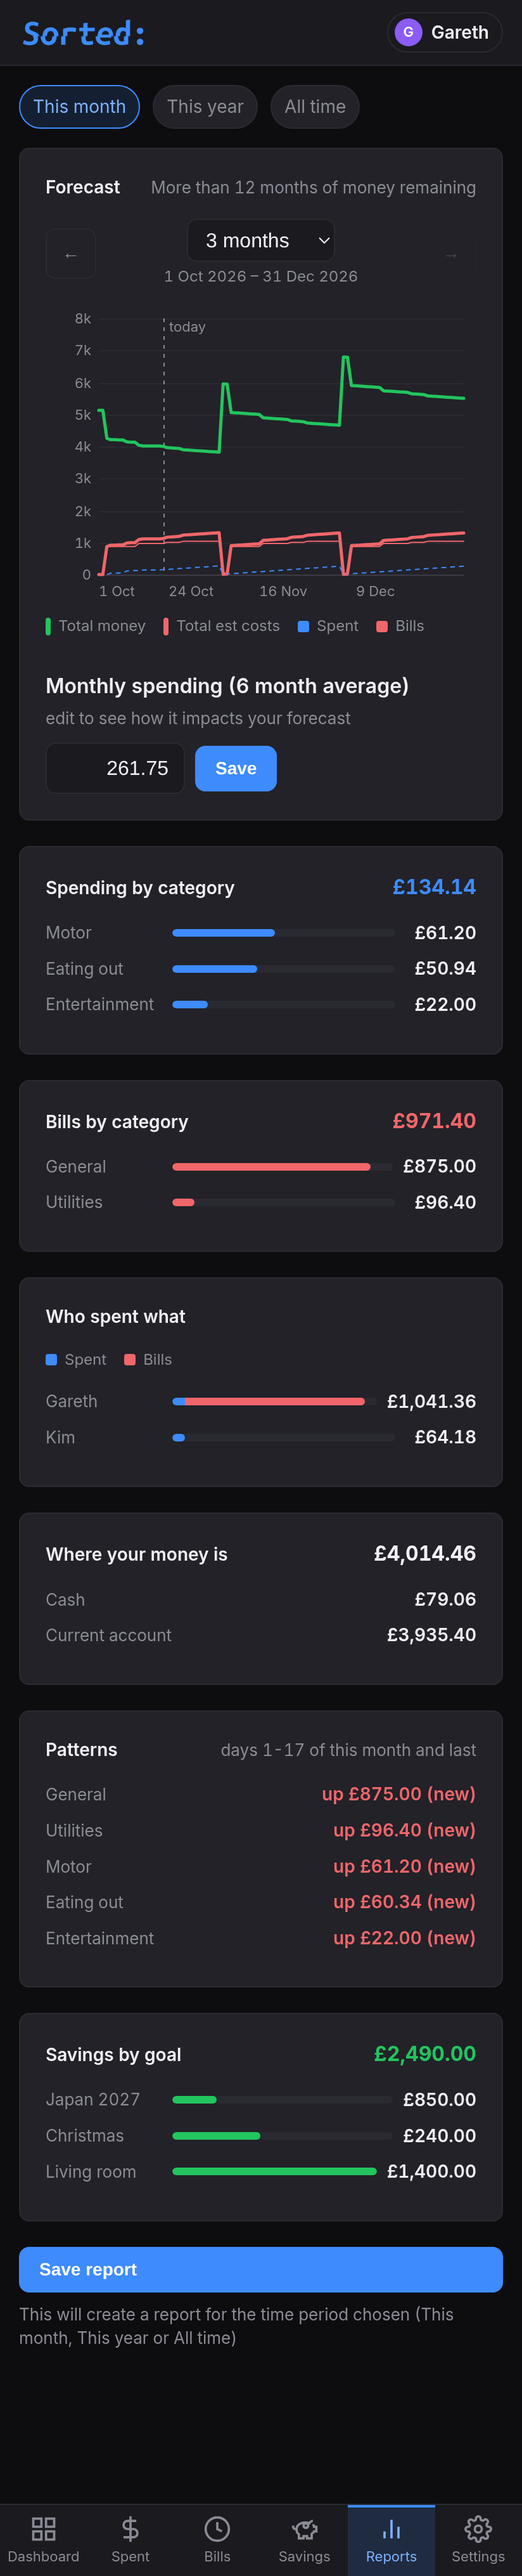
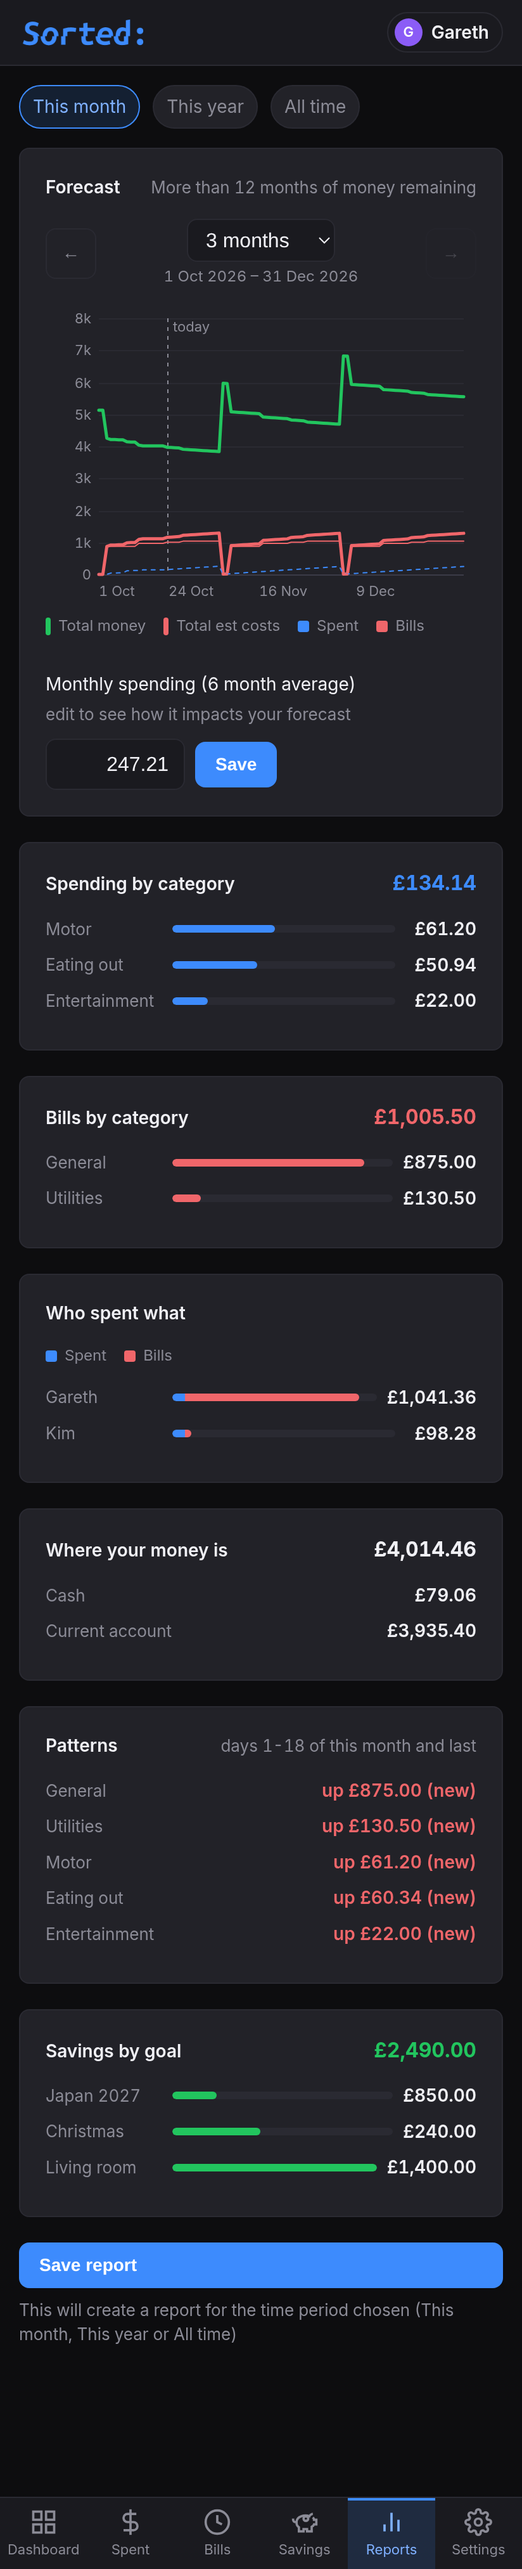
readme: the release pointer at 2.98.0, and the three shots the change invalidated
bills and settings changed as expected; reports changed because its Forecast
card carries a row label too, so the card is 10px shorter. dashboard, savings
and spend are pixel-identical, which is the check that says nothing else moved.

The portfolio's card image for the same shot was regenerated from the new one
with the recipe the other two cards were made with — ImageMagick's
`-resize 50%`, verified by reproducing both untouched cards byte-for-byte.
A plain PIL Lanczos is close but not the same pixels.

diff --git a/README.md b/README.md
@@ -96,7 +96,7 @@ Served over HTTPS, Chrome will also offer to install it — there's a web manife
 
 ### Android (APK)
 
-Grab [`sorted-v2-2.97.0-debug.apk`](https://github.com/jaquesbody/sorted/releases/download/v2.97.0/sorted-v2-2.97.0-debug.apk) from the [releases page](https://github.com/jaquesbody/sorted/releases/latest) and sideload it (your phone will ask to allow installs from unknown sources). It's the same app wrapped in a WebView — fully offline, data stored on the phone. The phone build moves the six destinations into a bottom bar; append `?native` to the web URL to preview that layout in a desktop browser.
+Grab [`sorted-v2-2.98.0-debug.apk`](https://github.com/jaquesbody/sorted/releases/download/v2.98.0/sorted-v2-2.98.0-debug.apk) from the [releases page](https://github.com/jaquesbody/sorted/releases/latest) and sideload it (your phone will ask to allow installs from unknown sources). It's the same app wrapped in a WebView — fully offline, data stored on the phone. The phone build moves the six destinations into a bottom bar; append `?native` to the web URL to preview that layout in a desktop browser.
 
 APKs are build artefacts, so they live in releases rather than in this repo — every past build is still on the releases page.
 
